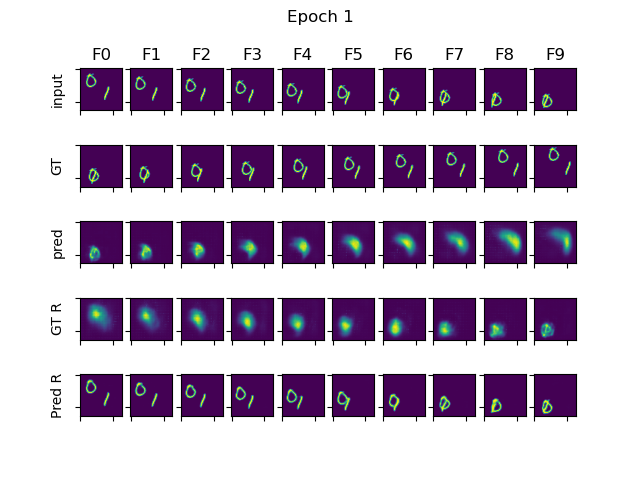
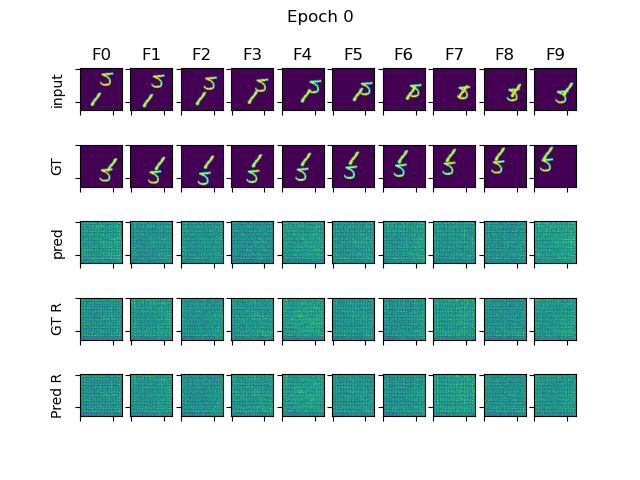
cocycle updates

diff --git a/gan/models/cocycle/cocycle_gan_model.py b/gan/models/cocycle/cocycle_gan_model.py
@@ -25,8 +25,6 @@ class CoCycleGAN(LightningModule):
         self.discriminator = nn.Sequential()
         self.best_val_loss = float("inf")
         self.val_mse = torchmetrics.MeanSquaredError()
-        self.ssim = torchmetrics.StructuralSimilarityIndexMeasure()
-        self.train_ssim = torchmetrics.StructuralSimilarityIndexMeasure()
 
         self.x_future = False
         self.y_future = True
@@ -37,7 +35,6 @@ class CoCycleGAN(LightningModule):
 
     def forward(self, x: t.Tensor, future: bool = False) -> t.Tensor:
         return self.generator(x, future=future)
-
 
     def __unembed(self, x: t.Tensor) -> t.Tensor:
         return x[:, 1:]
@@ -72,7 +69,7 @@ class CoCycleGAN(LightningModule):
 
     def validation_step(self, batch: tuple[t.Tensor, t.Tensor], batch_idx: int):
         x, y = batch
-        generator_loss = self.__generator_loss(x, y, batch_idx, flag="val")
+        # generator_loss = self.__generator_loss(x, y, batch_idx, flag="val")
         pred = self.generator(x, future=self.y_future)
         mse_loss = F.mse_loss(pred, y)
         self.val_mse.update(pred.detach(), y.detach())
@@ -81,33 +78,33 @@ class CoCycleGAN(LightningModule):
             self.__visualize_predictions(x, y, "val")
 
         return {
-            "val_loss": generator_loss,
-            "val_mse_loss": mse_loss,
+            "val_loss": mse_loss,
+            # "val_mse_loss": mse_loss,
         }
 
     def validation_epoch_end(self, outputs):
-        avg_loss = t.stack([x["val_loss"] for x in outputs]).mean()
+        # avg_loss = t.stack([x["val_loss"] for x in outputs]).mean()
 
         avg_mse_loss = self.val_mse.compute()
-        sum_mse_loss = t.stack([x["val_mse_loss"] for x in outputs]).sum()
+        # sum_mse_loss = t.stack([x["val_mse_loss"] for x in outputs]).sum()
         self.val_mse.reset()
 
-        self.log("val_sum_mse_loss", sum_mse_loss)
+        # self.log("val_sum_mse_loss", sum_mse_loss)
         self.log("val_loss", avg_mse_loss, prog_bar=True)
 
-        if avg_loss < self.best_val_loss:
-            self.best_val_loss = avg_loss
-            t.save(
-                self.state_dict(),
-                os.path.join(self.params.save_path, "best_model.pt"),
-            )
-            print("Saved model")
+        # if avg_loss < self.best_val_loss:
+        #     self.best_val_loss = avg_loss
+        #     t.save(
+        #         self.state_dict(),
+        #         os.path.join(self.params.save_path, "best_model.pt"),
+        #     )
+        #     print("Saved model")
 
         return {"val_loss": avg_mse_loss}
 
     def test_step(self, batch: tuple[t.Tensor, t.Tensor], batch_idx: int):
         x, y = batch
-        generator_loss = self.__generator_loss(x, y, batch_idx, flag="test")
+        # generator_loss = self.__generator_loss(x, y, batch_idx, flag="test")
         pred = self.generator(x, future=self.y_future)
         mse_loss = F.mse_loss(pred, y)
 
@@ -116,34 +113,25 @@ class CoCycleGAN(LightningModule):
         if batch_idx == 0:
             self.__visualize_predictions(x, y, "test")
         return {
-            "val_loss": generator_loss,
+            "val_loss": mse_loss,
             "val_mse_loss": mse_loss,
         }
 
     def test_epoch_end(self, outputs):
-        avg_loss = t.stack([x["val_loss"] for x in outputs]).mean()
+        # avg_loss = t.stack([x["val_loss"] for x in outputs]).mean()
         # self.log("val_mse_loss", t.stack([x["val_mse_loss"] for x in outputs]).mean())
         # self.log("val_loss", avg_loss, prog_bar=True)
         # self.log("val_gen_loss", avg_loss, prog_bar=True)
         # self.log("val_disc_loss", avg_disc_loss, prog_bar=True)
-        sum_mse_loss = t.stack([x["val_mse_loss"] for x in outputs]).sum()
+        # sum_mse_loss = t.stack([x["val_mse_loss"] for x in outputs]).sum()
         test_loss = self.val_mse.compute()
-        self.log("r_val_mse_loss", test_loss)
-        self.log("test_mse", sum_mse_loss)
+        # self.log("r_val_mse_loss", test_loss)
+        # self.log("test_mse", sum_mse_loss)
         self.val_mse.reset()
         return {"val_loss": test_loss}
 
     def __generator_loss(self, x: t.Tensor, y: t.Tensor, batch_idx: int, flag: str):
         visualize = (batch_idx % 10 == 0) if flag == "train" else (batch_idx == 0)
-
-        # forward_generator_loss = self.__one_way_generator_loss(
-        #     x, y, future=self.x_future, visualize=visualize
-        # )
-        # backward_generator_loss = self.__one_way_generator_loss(
-        #     x, y, future=self.y_future, visualize=visualize
-        # )
-
-        # cyclic_generator_loss = self.__cyclic_way_generator_loss(x, y)
 
         if visualize:
             self.__visualize_predictions(x, y, flag)
@@ -155,8 +143,8 @@ class CoCycleGAN(LightningModule):
 
         pred_y_l1 = F.mse_loss(pred_y, y)
         pred_x_l1 = F.mse_loss(pred_x, x)
-        pred_cycle_l1 = F.mse_loss(cycle_x, x)
-        pred_y_cycle_l1 = F.mse_loss(cycle_y, y)
+        pred_cycle_l1 = F.l1_loss(cycle_x, x)
+        pred_y_cycle_l1 = F.l1_loss(cycle_y, y)
 
         mse_sum_pred_y_loss = F.mse_loss(pred_y, y, reduction="sum")
 
@@ -184,12 +172,38 @@ class CoCycleGAN(LightningModule):
 
         if batch_idx % self.params.save_interval == 0:
             # save the model on a thread
-            self.__save_model()
+            # self.__save_model()
+            # visualize = True
+            # if visualize:
+            self.__visualize_predictions(x, y, "train")
 
-        pred = self.generator(x, future=self.y_future)
-        mse_loss = F.mse_loss(pred, y)
-        self.log("mse_loss", mse_loss, prog_bar=True)
-        loss = self.__generator_loss(x, y, batch_idx, flag="train")
+        pred_y = self.generator(x, future=self.y_future)
+        pred_x = self.generator(y, future=self.x_future)
+        cycle_x = self.generator(pred_y, future=self.x_future)
+        cycle_y = self.generator(pred_x, future=self.y_future)
+
+        pred_y_loss = F.mse_loss(pred_y, y)
+        pred_x_loss = F.mse_loss(pred_x, x)
+        pred_cycle_loss = F.mse_loss(cycle_x, x)
+        pred_y_cycle_loss = F.mse_loss(cycle_y, y)
+
+        loss = (
+            self.params.hparams.l1_cyclic_loss_weight
+            * (pred_cycle_loss + pred_y_cycle_loss)
+            + self.params.hparams.l1_pred_loss_weight * pred_y_loss
+            + self.params.hparams.l1_past_pred_loss_weight * pred_x_loss
+        )
+        # self.log("CoCycleLoss/pred_y_loss", pred_y_loss)
+        # self.log("CoCycleLoss/pred_x_loss", pred_x_loss)
+        # self.log("CoCycleLoss/pred_cycle_loss", pred_cycle_loss)
+        # self.log("CoCycleLoss/pred_y_cycle_loss", pred_y_cycle_loss)
+        # self.log("CoCycleLoss/loss", loss)
+        self.log("mse_loss", pred_y_loss)
+
+        return {"loss": loss}
+
+        self.log("mse_loss", pred_y, prog_bar=True)
+        # loss = self.__generator_loss(x, y, batch_idx, flag="train")
         self.log("g_loss", loss, prog_bar=True)
         return {"loss": loss}
 

diff --git a/gan/models/cocycle/simvp/modules.py b/gan/models/cocycle/simvp/modules.py
@@ -31,6 +31,18 @@ class ConvSC(nn.Module):
         y = self.conv(x)
         return y
 
+class ChanLayerNorm(nn.Module):
+    def __init__(self, dim, eps = 1e-5):
+        super().__init__()
+        self.eps = eps
+        self.g = nn.Parameter(torch.ones(1, dim, 1, 1))
+        self.b = nn.Parameter(torch.zeros(1, dim, 1, 1))
+
+    def forward(self, x):
+        std = torch.var(x, dim = 1, unbiased = False, keepdim = True).sqrt()
+        mean = torch.mean(x, dim = 1, keepdim = True)
+        return (x - mean) / (std + self.eps) * self.g + self.b
+
 
 class GroupConv2d(nn.Module):
     def __init__(self, in_channels, out_channels, kernel_size, stride, padding, groups, act_norm=False):
@@ -39,7 +51,7 @@ class GroupConv2d(nn.Module):
         if in_channels % groups != 0:
             groups = 1
         self.conv = nn.Conv2d(in_channels, out_channels, kernel_size=kernel_size, stride=stride, padding=padding,groups=groups)
-        self.norm = nn.GroupNorm(groups,out_channels)
+        self.norm = nn.GroupNorm(out_channels)
         self.activate = nn.LeakyReLU(0.2, inplace=True)
     
     def forward(self, x):

diff --git a/gan/models/cocycle/simvp/model.py b/gan/models/cocycle/simvp/model.py
@@ -175,7 +175,7 @@ class SimVP(nn.Module):
                 # z = self.embed(out, future)
                 # ipdb.set_trace()
                 embed = self.enc.skip(out)
-                # embed = self.pos_emb(embed, T + i)
+                embed = self.pos_emb(embed, T + i)
         else:
             for i in range(T - 1, -1, -1):
                 out = self.dec(hid[:, i, :, :, :], embed, skip_all)
@@ -184,7 +184,7 @@ class SimVP(nn.Module):
                 # z = t.cat([x[:B, :1, ...], out], 1)
                 # z = self.embed(out, future)
                 embed = self.enc.skip(out)
-                # embed = self.pos_emb(embed, T - i - 1)
+                embed = self.pos_emb(embed, T - i - 1)
 
             # reverse outs array
             # ipdb.set_trace()
